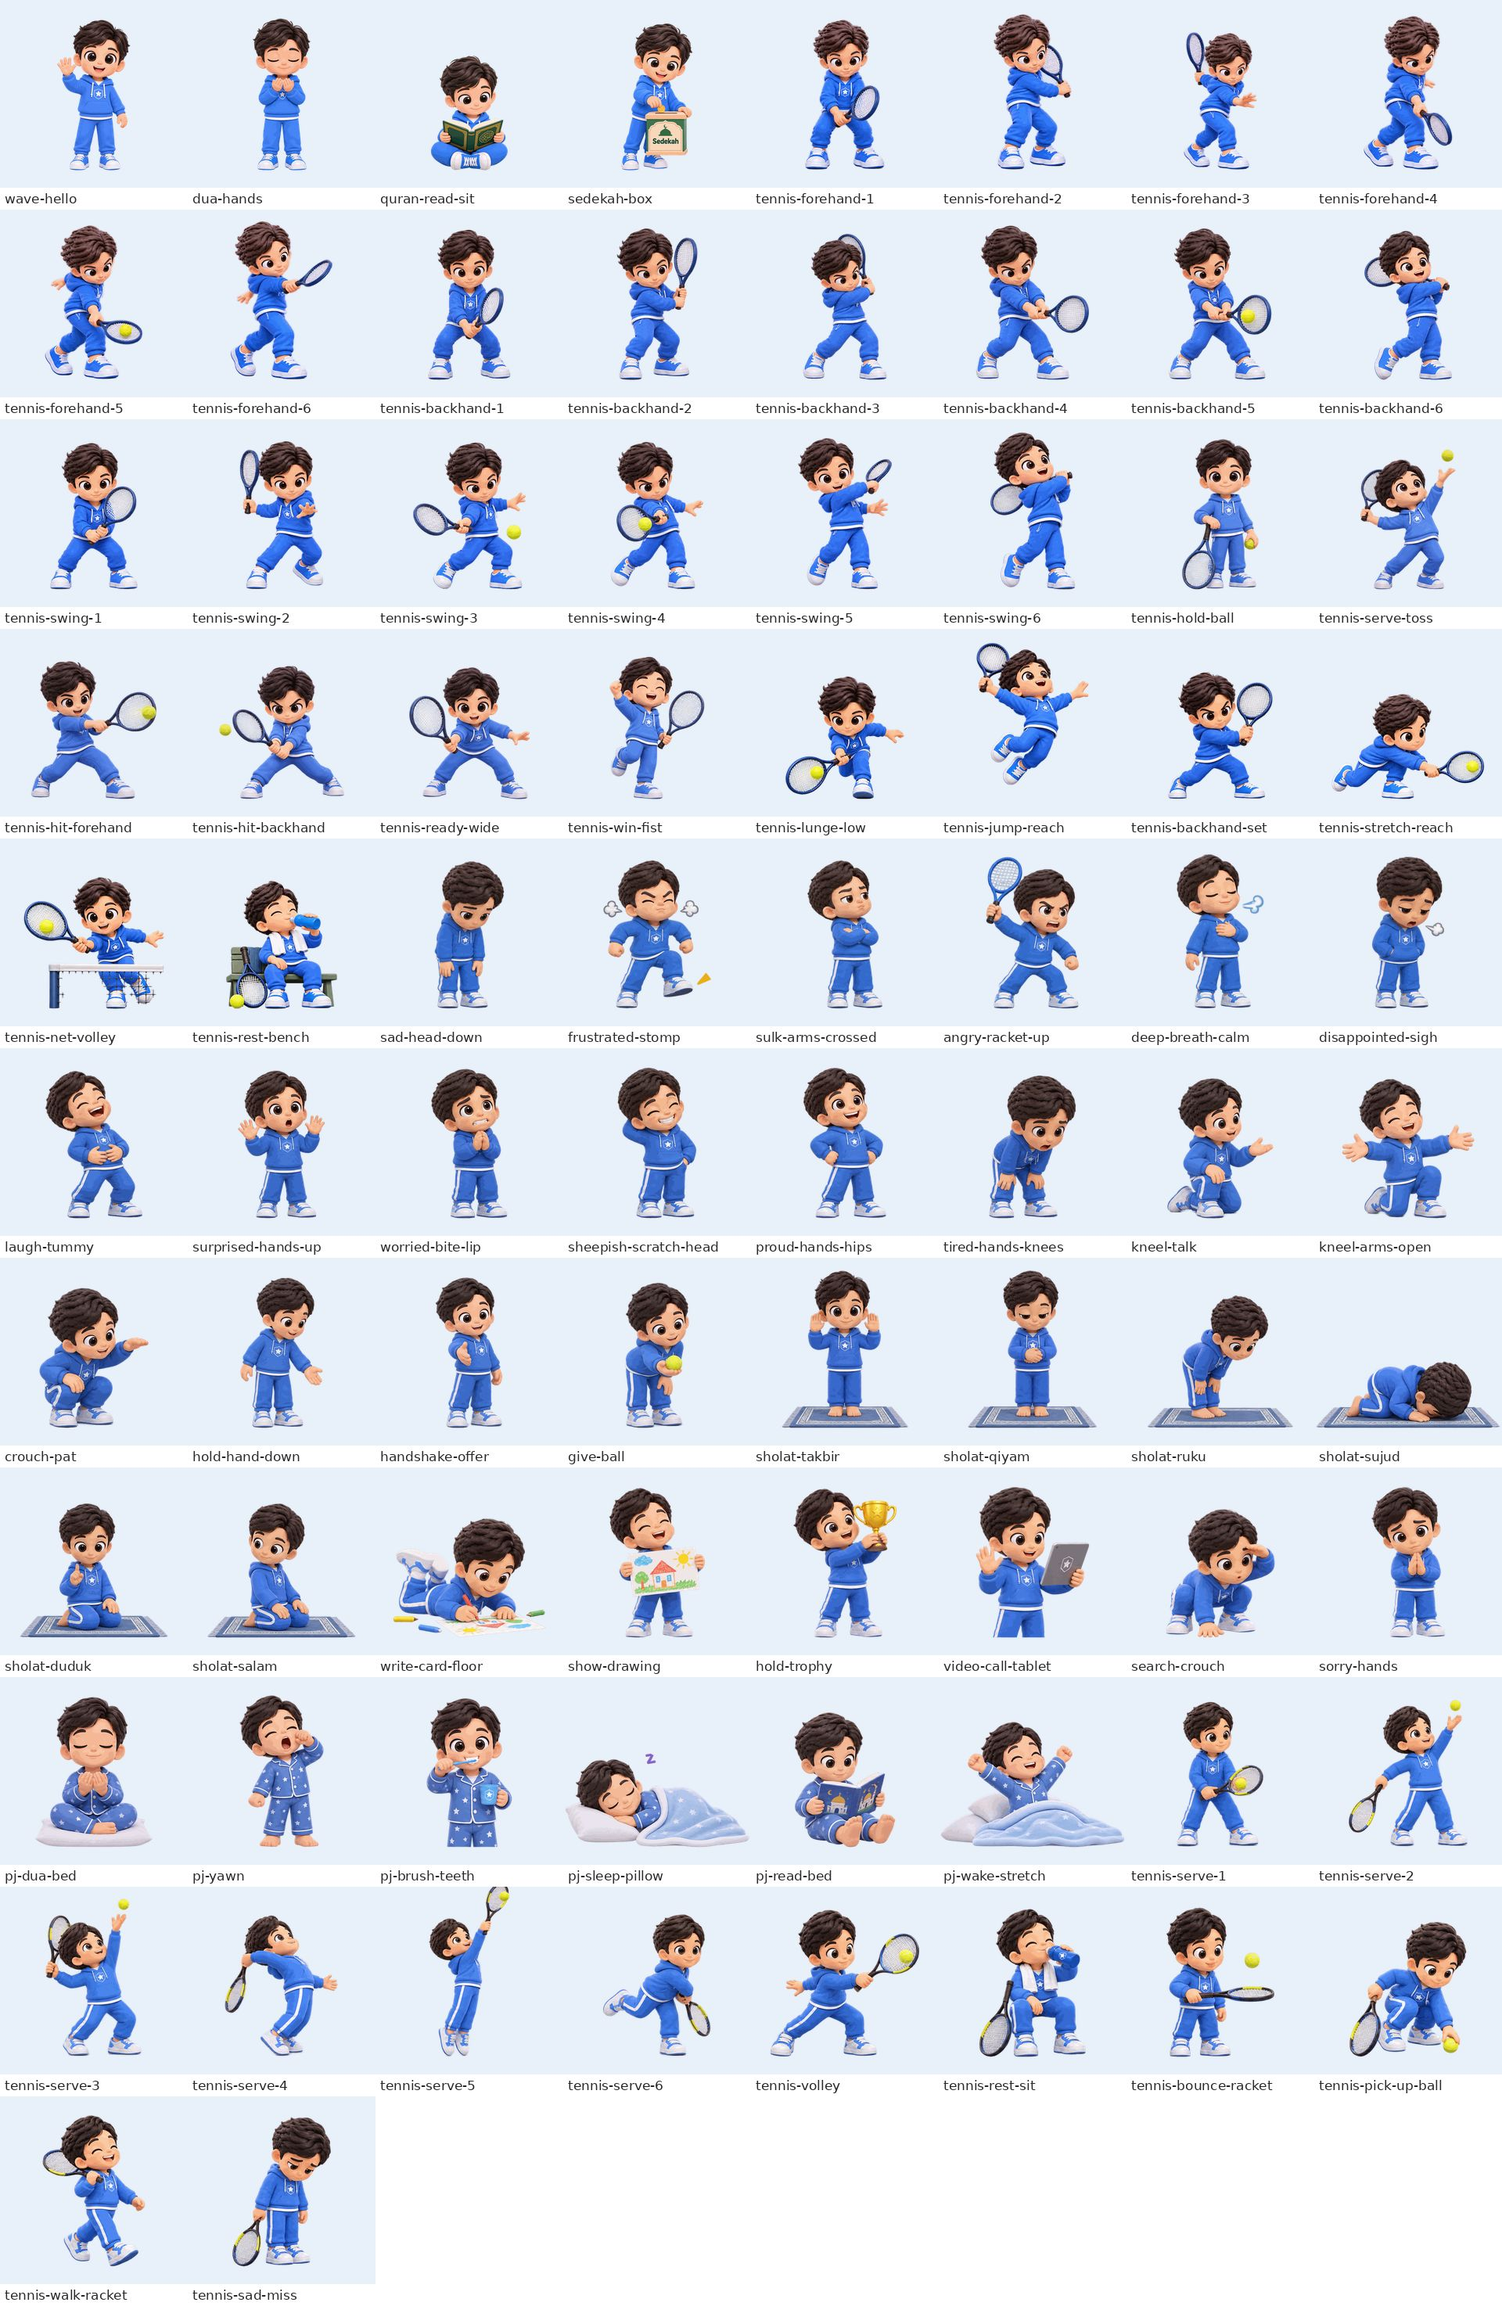
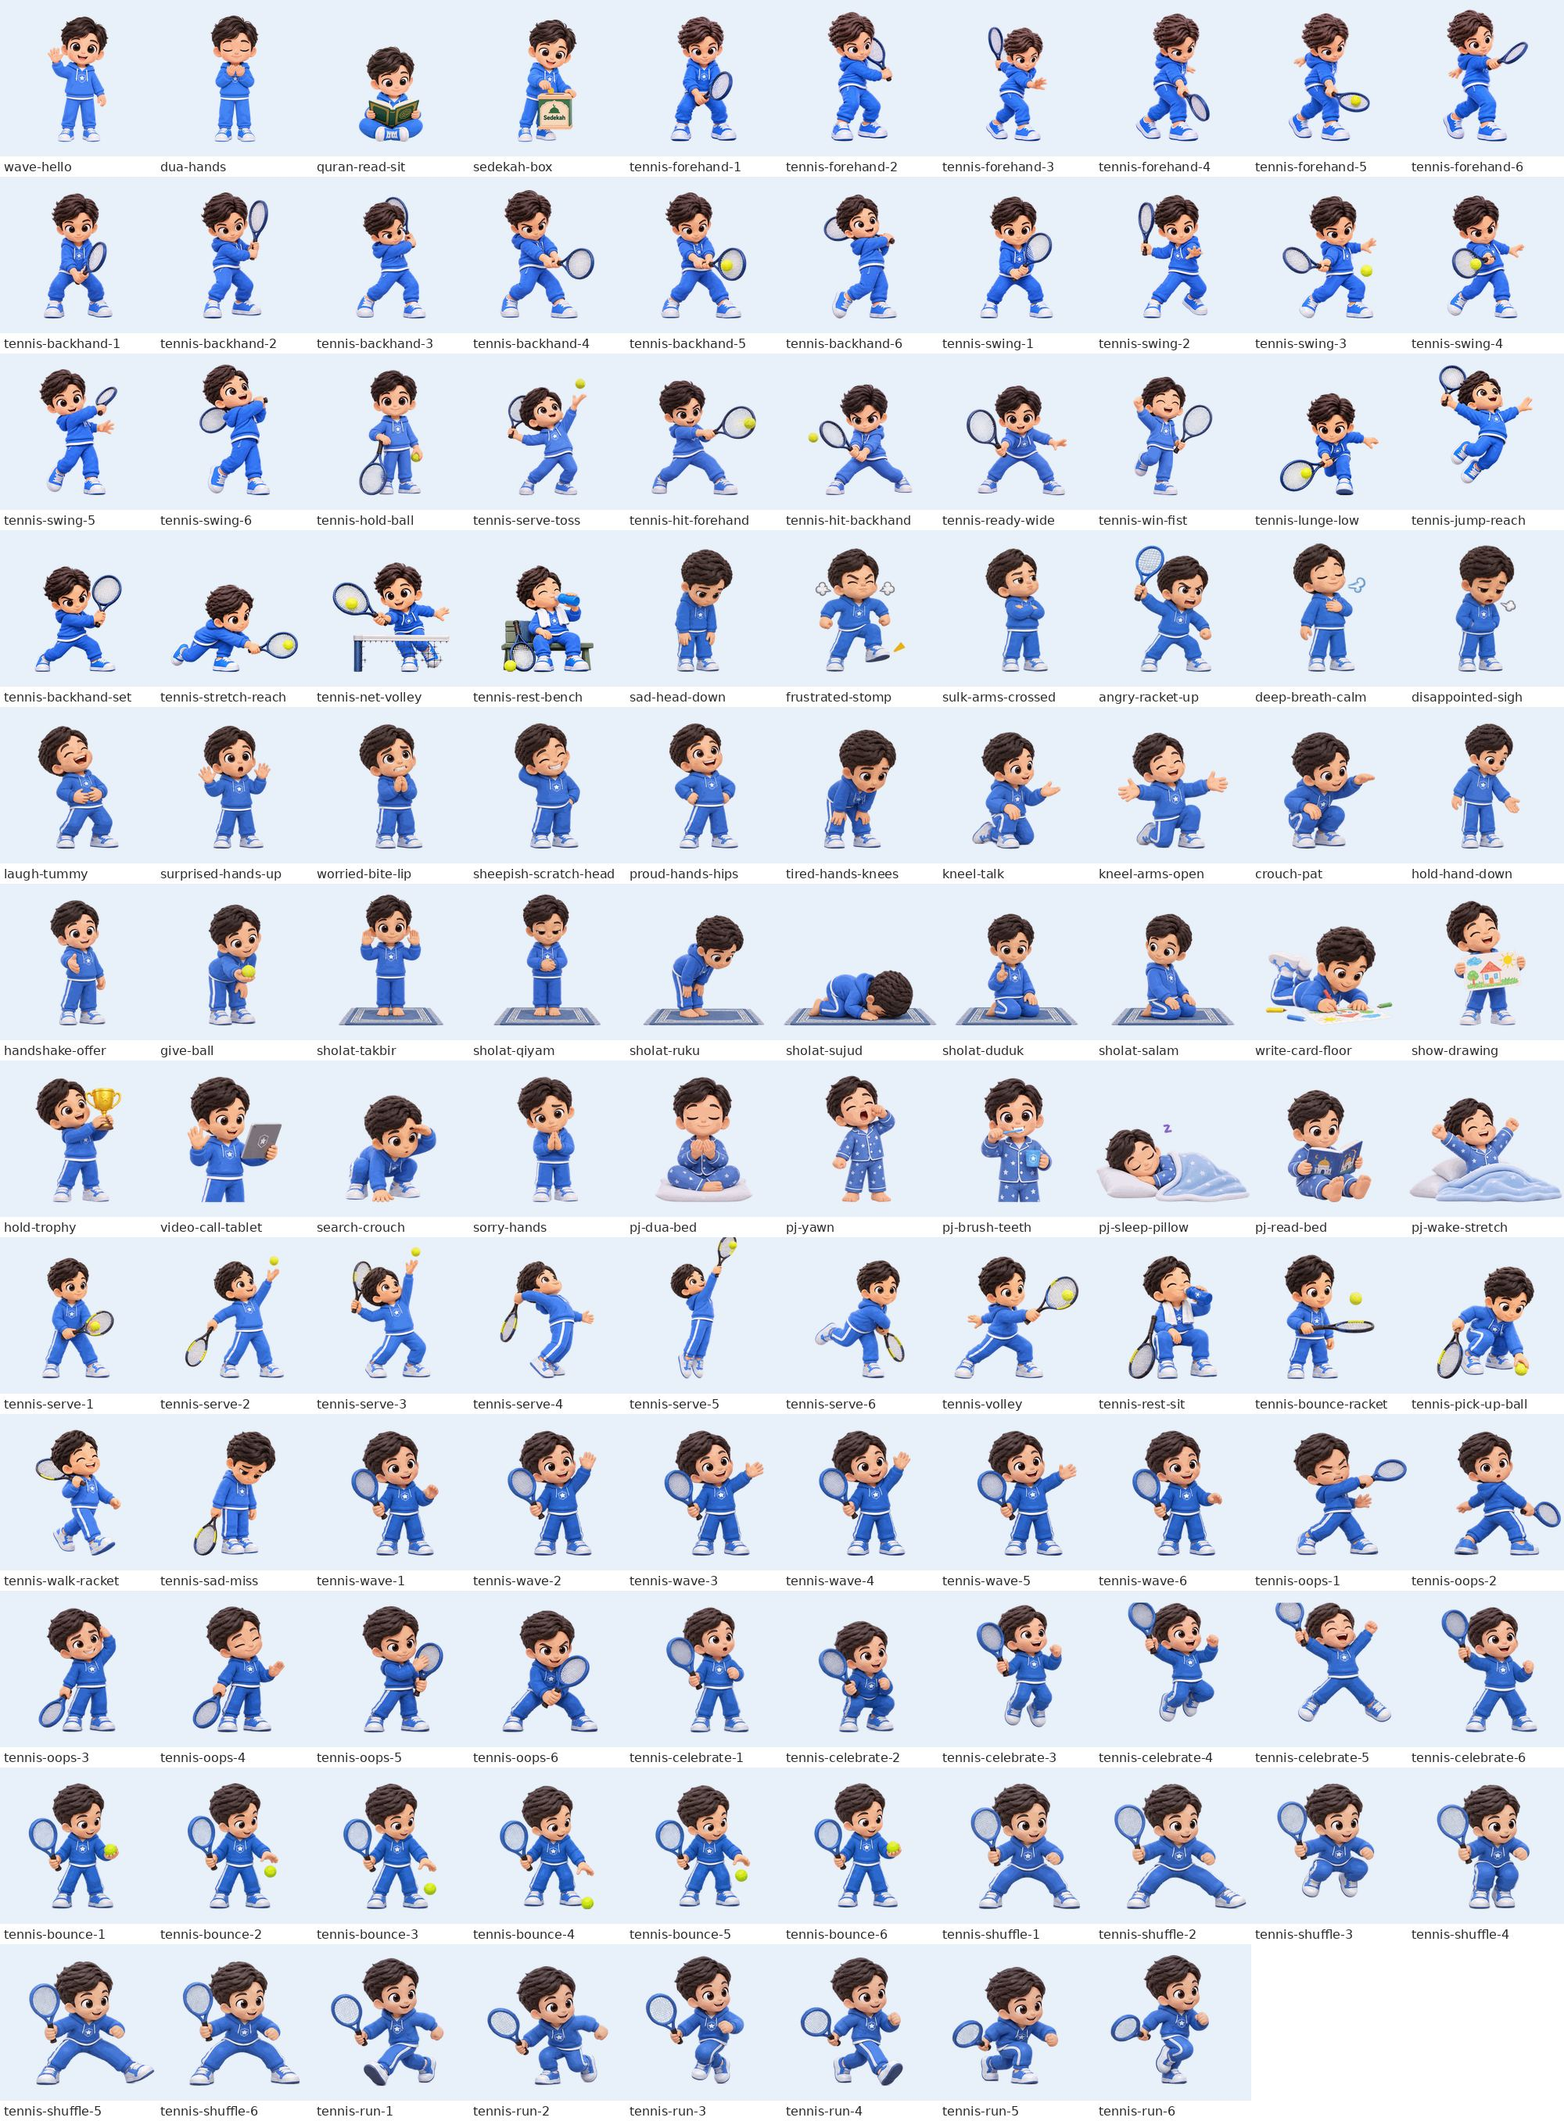
Adam pose library: six tennis animation sets (118 poses) (#132)
- tennis-wave, tennis-oops, tennis-celebrate, tennis-bounce,
  tennis-shuffle, tennis-run: six frames each from the tennis brief
- each set keeps one scale and its own ground line and every frame is
  anchored on Adam's head, so loops don't jitter and jumps stay in the
  air; the bounced ball is kept in every frame
- friends-poses.ts: notes per frame and ADAM_FOR wave/oops/celebrate/
  ballBounce/shuffle/run frame lists; docs and reference sheet updated

Claude-Session: https://claude.ai/code/session_013wiJDRdH28m1FqwwMnvbtM

diff --git a/lib/cerita/friends-poses.ts b/lib/cerita/friends-poses.ts
@@ -1,7 +1,7 @@
 /**
  * Baby Mo & friends pose library — Adam (older brother) and Ayah (Dad).
  *
- *   public/adam-poses/adam-<name>.png   82 renders (incl. 4 six-frame tennis sequences)
+ *   public/adam-poses/adam-<name>.png   118 renders (incl. 10 six-frame tennis sequences)
  *   public/ayah-poses/ayah-<name>.png   90 renders (3 of them with Baby Mo in the image)
  *
  * Every PNG is 800×800, transparent, feet on the same ground line as Baby Mo
@@ -126,6 +126,43 @@ export const ADAM_POSES: FriendPose[] = [
   { name: "tennis-pick-up-ball", category: "play", mood: "happy", props: ["racket", "ball"], use: "Bending to pick up a ball. Between points, tidying up balls.", low: true },
   { name: "tennis-walk-racket", category: "travel", mood: "joy", props: ["racket"], use: "Walking happily with the racket on his shoulder. Going to or from the court." },
   { name: "tennis-sad-miss", category: "feel", mood: "sad", props: ["racket"], use: "Racket dragging, head down. After a miss or a lost point." },
+  /* ── tennis animation sets (from the tennis brief): six frames each, same scale and ground; play with seq ── */
+  { name: "tennis-wave-1", category: "greet", mood: "happy", props: ["racket"], use: "Wave hello with the racket, 6 frames (1/6): raise, wave, wave, wave, wave, lower. Loop frames 2\u20135 for a waving loop. Frame: raise." },
+  { name: "tennis-wave-2", category: "greet", mood: "happy", props: ["racket"], use: "Wave hello with the racket, 6 frames (2/6): raise, wave, wave, wave, wave, lower. Loop frames 2\u20135 for a waving loop. Frame: wave left." },
+  { name: "tennis-wave-3", category: "greet", mood: "happy", props: ["racket"], use: "Wave hello with the racket, 6 frames (3/6): raise, wave, wave, wave, wave, lower. Loop frames 2\u20135 for a waving loop. Frame: wave right." },
+  { name: "tennis-wave-4", category: "greet", mood: "happy", props: ["racket"], use: "Wave hello with the racket, 6 frames (4/6): raise, wave, wave, wave, wave, lower. Loop frames 2\u20135 for a waving loop. Frame: wave left." },
+  { name: "tennis-wave-5", category: "greet", mood: "happy", props: ["racket"], use: "Wave hello with the racket, 6 frames (5/6): raise, wave, wave, wave, wave, lower. Loop frames 2\u20135 for a waving loop. Frame: wave right." },
+  { name: "tennis-wave-6", category: "greet", mood: "happy", props: ["racket"], use: "Wave hello with the racket, 6 frames (6/6): raise, wave, wave, wave, wave, lower. Loop frames 2\u20135 for a waving loop. Frame: lower." },
+  { name: "tennis-oops-1", category: "feel", mood: "sheepish", props: ["racket"], use: "Miss, then try again (1/6): swing and miss, look back, oops (scratching his head), shake it off, ready again. Frame: swing and miss." },
+  { name: "tennis-oops-2", category: "feel", mood: "sheepish", props: ["racket"], use: "Miss, then try again (2/6): swing and miss, look back, oops (scratching his head), shake it off, ready again. Frame: look back." },
+  { name: "tennis-oops-3", category: "feel", mood: "sheepish", props: ["racket"], use: "Miss, then try again (3/6): swing and miss, look back, oops (scratching his head), shake it off, ready again. Frame: oops." },
+  { name: "tennis-oops-4", category: "feel", mood: "sheepish", props: ["racket"], use: "Miss, then try again (4/6): swing and miss, look back, oops (scratching his head), shake it off, ready again. Frame: shake it off." },
+  { name: "tennis-oops-5", category: "feel", mood: "sheepish", props: ["racket"], use: "Miss, then try again (5/6): swing and miss, look back, oops (scratching his head), shake it off, ready again. Frame: determined." },
+  { name: "tennis-oops-6", category: "feel", mood: "sheepish", props: ["racket"], use: "Miss, then try again (6/6): swing and miss, look back, oops (scratching his head), shake it off, ready again. Frame: ready again." },
+  { name: "tennis-celebrate-1", category: "celebrate", mood: "joy", props: ["racket"], use: "Win celebration (1/6): see it, crouch, jump up, fist up, star jump, land smiling. Frame: see it." },
+  { name: "tennis-celebrate-2", category: "celebrate", mood: "joy", props: ["racket"], use: "Win celebration (2/6): see it, crouch, jump up, fist up, star jump, land smiling. Frame: crouch." },
+  { name: "tennis-celebrate-3", category: "celebrate", mood: "joy", props: ["racket"], use: "Win celebration (3/6): see it, crouch, jump up, fist up, star jump, land smiling. Frame: jump up." },
+  { name: "tennis-celebrate-4", category: "celebrate", mood: "joy", props: ["racket"], use: "Win celebration (4/6): see it, crouch, jump up, fist up, star jump, land smiling. Frame: fist up (air).", air: true },
+  { name: "tennis-celebrate-5", category: "celebrate", mood: "joy", props: ["racket"], use: "Win celebration (5/6): see it, crouch, jump up, fist up, star jump, land smiling. Frame: star jump (air).", air: true },
+  { name: "tennis-celebrate-6", category: "celebrate", mood: "joy", props: ["racket"], use: "Win celebration (6/6): see it, crouch, jump up, fist up, star jump, land smiling. Frame: land smiling." },
+  { name: "tennis-bounce-1", category: "play", mood: "focused", props: ["racket", "ball"], use: "Bounce the ball before serving (1/6): hold, drop, falling, hits the ground, rising, catch. Loops. Frame: hold." },
+  { name: "tennis-bounce-2", category: "play", mood: "focused", props: ["racket", "ball"], use: "Bounce the ball before serving (2/6): hold, drop, falling, hits the ground, rising, catch. Loops. Frame: drop." },
+  { name: "tennis-bounce-3", category: "play", mood: "focused", props: ["racket", "ball"], use: "Bounce the ball before serving (3/6): hold, drop, falling, hits the ground, rising, catch. Loops. Frame: falling." },
+  { name: "tennis-bounce-4", category: "play", mood: "focused", props: ["racket", "ball"], use: "Bounce the ball before serving (4/6): hold, drop, falling, hits the ground, rising, catch. Loops. Frame: ground." },
+  { name: "tennis-bounce-5", category: "play", mood: "focused", props: ["racket", "ball"], use: "Bounce the ball before serving (5/6): hold, drop, falling, hits the ground, rising, catch. Loops. Frame: rising." },
+  { name: "tennis-bounce-6", category: "play", mood: "focused", props: ["racket", "ball"], use: "Bounce the ball before serving (6/6): hold, drop, falling, hits the ground, rising, catch. Loops. Frame: catch." },
+  { name: "tennis-shuffle-1", category: "play", mood: "focused", props: ["racket"], use: "Side shuffle, front view (1/6): wide, step out, hop, close, step out, wide. Loops; slide him across the court. Frame: wide." },
+  { name: "tennis-shuffle-2", category: "play", mood: "focused", props: ["racket"], use: "Side shuffle, front view (2/6): wide, step out, hop, close, step out, wide. Loops; slide him across the court. Frame: step out." },
+  { name: "tennis-shuffle-3", category: "play", mood: "focused", props: ["racket"], use: "Side shuffle, front view (3/6): wide, step out, hop, close, step out, wide. Loops; slide him across the court. Frame: hop (air).", air: true },
+  { name: "tennis-shuffle-4", category: "play", mood: "focused", props: ["racket"], use: "Side shuffle, front view (4/6): wide, step out, hop, close, step out, wide. Loops; slide him across the court. Frame: close." },
+  { name: "tennis-shuffle-5", category: "play", mood: "focused", props: ["racket"], use: "Side shuffle, front view (5/6): wide, step out, hop, close, step out, wide. Loops; slide him across the court. Frame: step out." },
+  { name: "tennis-shuffle-6", category: "play", mood: "focused", props: ["racket"], use: "Side shuffle, front view (6/6): wide, step out, hop, close, step out, wide. Loops; slide him across the court. Frame: wide." },
+  { name: "tennis-run-1", category: "play", mood: "happy", props: ["racket"], use: "Run with racket (1/6): a running cycle in place. Loops; move him across the page. Frame: stride." },
+  { name: "tennis-run-2", category: "play", mood: "happy", props: ["racket"], use: "Run with racket (2/6): a running cycle in place. Loops; move him across the page. Frame: push." },
+  { name: "tennis-run-3", category: "play", mood: "happy", props: ["racket"], use: "Run with racket (3/6): a running cycle in place. Loops; move him across the page. Frame: pass." },
+  { name: "tennis-run-4", category: "play", mood: "happy", props: ["racket"], use: "Run with racket (4/6): a running cycle in place. Loops; move him across the page. Frame: stride." },
+  { name: "tennis-run-5", category: "play", mood: "happy", props: ["racket"], use: "Run with racket (5/6): a running cycle in place. Loops; move him across the page. Frame: push (low)." },
+  { name: "tennis-run-6", category: "play", mood: "happy", props: ["racket"], use: "Run with racket (6/6): a running cycle in place. Loops; move him across the page. Frame: pass." },
 ];
 
 export const AYAH_POSES: FriendPose[] = [
@@ -257,6 +294,12 @@ export const ADAM_FOR: Record<string, string[]> = {
   forehandFrames: ["tennis-forehand-1", "tennis-forehand-2", "tennis-forehand-3", "tennis-forehand-4", "tennis-forehand-5", "tennis-forehand-6"],
   backhandFrames: ["tennis-backhand-1", "tennis-backhand-2", "tennis-backhand-3", "tennis-backhand-4", "tennis-backhand-5", "tennis-backhand-6"],
   swingFrames: ["tennis-swing-1", "tennis-swing-2", "tennis-swing-3", "tennis-swing-4", "tennis-swing-5", "tennis-swing-6"],
+  waveFrames: ["tennis-wave-1", "tennis-wave-2", "tennis-wave-3", "tennis-wave-4", "tennis-wave-5", "tennis-wave-6"],
+  oopsFrames: ["tennis-oops-1", "tennis-oops-2", "tennis-oops-3", "tennis-oops-4", "tennis-oops-5", "tennis-oops-6"],
+  celebrateFrames: ["tennis-celebrate-1", "tennis-celebrate-2", "tennis-celebrate-3", "tennis-celebrate-4", "tennis-celebrate-5", "tennis-celebrate-6"],
+  ballBounceFrames: ["tennis-bounce-1", "tennis-bounce-2", "tennis-bounce-3", "tennis-bounce-4", "tennis-bounce-5", "tennis-bounce-6"],
+  shuffleFrames: ["tennis-shuffle-1", "tennis-shuffle-2", "tennis-shuffle-3", "tennis-shuffle-4", "tennis-shuffle-5", "tennis-shuffle-6"],
+  runFrames: ["tennis-run-1", "tennis-run-2", "tennis-run-3", "tennis-run-4", "tennis-run-5", "tennis-run-6"],
   serveFrames: ["tennis-serve-1", "tennis-serve-2", "tennis-serve-3", "tennis-serve-4", "tennis-serve-5", "tennis-serve-6"],
 };
 

diff --git a/docs/friends-pose-library.md b/docs/friends-pose-library.md
@@ -1,10 +1,10 @@
 # Baby Mo & friends — pose library (Adam and Ayah)
 
-There are 172 transparent renders. Use them in StoryArt scenes next to Baby Mo and Baby Ais.
+There are 208 transparent renders. Use them in StoryArt scenes next to Baby Mo and Baby Ais.
 
 | Character | Poses | Files | Reference sheet |
 | --- | --- | --- | --- |
-| Adam (older brother, about 7) | 82 | `public/adam-poses/adam-<name>.png` | [adam-pose-library.jpg](adam-pose-library.jpg) |
+| Adam (older brother, about 7) | 118 | `public/adam-poses/adam-<name>.png` | [adam-pose-library.jpg](adam-pose-library.jpg) |
 | Ayah (Dad) | 90 | `public/ayah-poses/ayah-<name>.png` | [ayah-pose-library.jpg](ayah-pose-library.jpg) |
 
 The code lives in `lib/cerita/friends-poses.ts`. It holds `ADAM_POSES`, `AYAH_POSES`, the quick picks `ADAM_FOR` and `AYAH_FOR`, and `FRIEND_GAPS`.
@@ -37,7 +37,7 @@ scene: {
 - **Small losses:** the "zzz" on `ayah-sleep-blanket` was dropped as a stray speck.
 - **Wrong outfit:** the tennis sheets show Adam in his blue hoodie, not the tennis outfit from the brief.
 
-## Adam — 82 poses
+## Adam — 118 poses
 
 ![Adam pose library](adam-pose-library.jpg)
 
@@ -139,6 +139,23 @@ These are from the Adam Pose Revision Brief, batches R1–R4, R7 and R9–R11.
 | `tennis-pick-up-ball` | play · low | Bending to pick up a ball. Between points, tidying up balls. |
 | `tennis-walk-racket` | travel | Walking happily with the racket on his shoulder. Going to or from the court. |
 | `tennis-sad-miss` | feel | Racket dragging, head down. After a miss or a lost point. |
+
+### Tennis animation sets: 36 frames
+
+There are six six-frame sequences from the tennis animation brief. They play with `seq`, for example `{ who: "adam", pose: "tennis-run-1", seq: ADAM_FOR.runFrames, fps: 8, x }`.
+
+- **Built for animation:** each set shares one scale and its own ground line, and every frame is anchored on Adam's head, so the loop doesn't jitter sideways. Jump frames (`celebrate-4`, `celebrate-5`, `shuffle-3`) stay in the air.
+- **Effects dropped:** the sheets' little effects (wave sparkles, the swing trail on the miss, dizzy swirls) were cut away. The bounced ball is kept in every `tennis-bounce` frame.
+- **Racket:** the blue racket matches the first tennis renders.
+
+| Set | Frames 1–6 | Use |
+| --- | --- | --- |
+| `tennis-wave-1…6` | raise, wave ×4, lower | Hello and goodbye at the court; loop frames 2–5 |
+| `tennis-oops-1…6` | swing and miss, look back, oops, shake it off, determined, ready again | A miss handled with a smile |
+| `tennis-celebrate-1…6` | see it, crouch, jump up, fist up, star jump, land | Winning a point or a match |
+| `tennis-bounce-1…6` | hold, drop, falling, ground, rising, catch | Before a serve; loops |
+| `tennis-shuffle-1…6` | wide, step out, hop, close, step out, wide | Footwork, front view; loops while he slides across |
+| `tennis-run-1…6` | run cycle | Running with the racket; loops while he moves |
 
 The three tennis sets (`tennis-forehand-1…6`, `tennis-backhand-1…6`, `tennis-swing-1…6`) are six-frame swings. Use frame 4 or 5 as a single book image, or play them in order as an animation.
 
